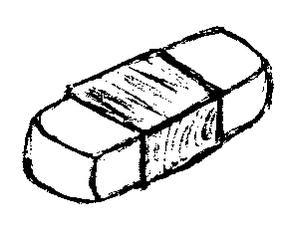
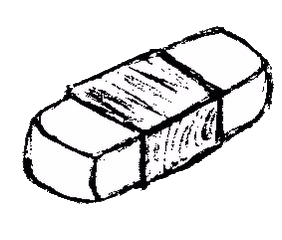
Weißer Hintergrund Radiergummi und Header weg

diff --git a/public/style.css b/public/style.css
@@ -250,7 +250,6 @@ body{
         #radierer{
             width: 90%;
             height: auto;
-            background-color: white;
 }
     
 #malbereich{
@@ -623,7 +622,6 @@ body{
         #radierer{
             width: 90%;
             height: auto;
-            background-color: white;
 }
     
 #malbereich{
@@ -997,7 +995,6 @@ body{
         #radierer{
             width: 90%;
             height: auto;
-            background-color: white;
 }
     
 #malbereich{
@@ -1361,7 +1358,6 @@ body{
         #radierer{
             width: 90%;
             height: auto;
-            background-color: white;
 }
     
 #malbereich{
@@ -1727,7 +1723,6 @@ body{
         #radierer{
             width: 20px;
             height: auto;
-            background-color: white;
 }
     
 #malbereich{
@@ -2094,7 +2089,6 @@ body{
         #radierer{
             width: 20px;
             height: auto;
-            background-color: white;
 }
     
 #malbereich{
@@ -2460,7 +2454,6 @@ body{
         #radierer{
             width: 25px;
             height: auto;
-            background-color: white;
 }
     
 #malbereich{
@@ -2822,7 +2815,6 @@ body{
         #radierer{
             width: 25px;
             height: auto;
-            background-color: white;
 }
     
 #malbereich{

diff --git a/public/index.html b/public/index.html
@@ -58,7 +58,7 @@
 			<button class="farbbutton" id="button7" onclick='farbuebergabe("button7")'></button>
 			<button class="farbbutton" id="button8" onclick='farbuebergabe("button8")'></button>
 			<button class="farbbutton" id="button9" onclick='farbuebergabe("button9")'></button>
-			<img src="Radiergummi.png" id="radierer" onclick='farbuebergabe("radierer")'>
+			<img src="radiergummi.png" id="radierer" onclick='farbuebergabe("radierer")'>
 		</div>
 
         <div id="malbereich">
